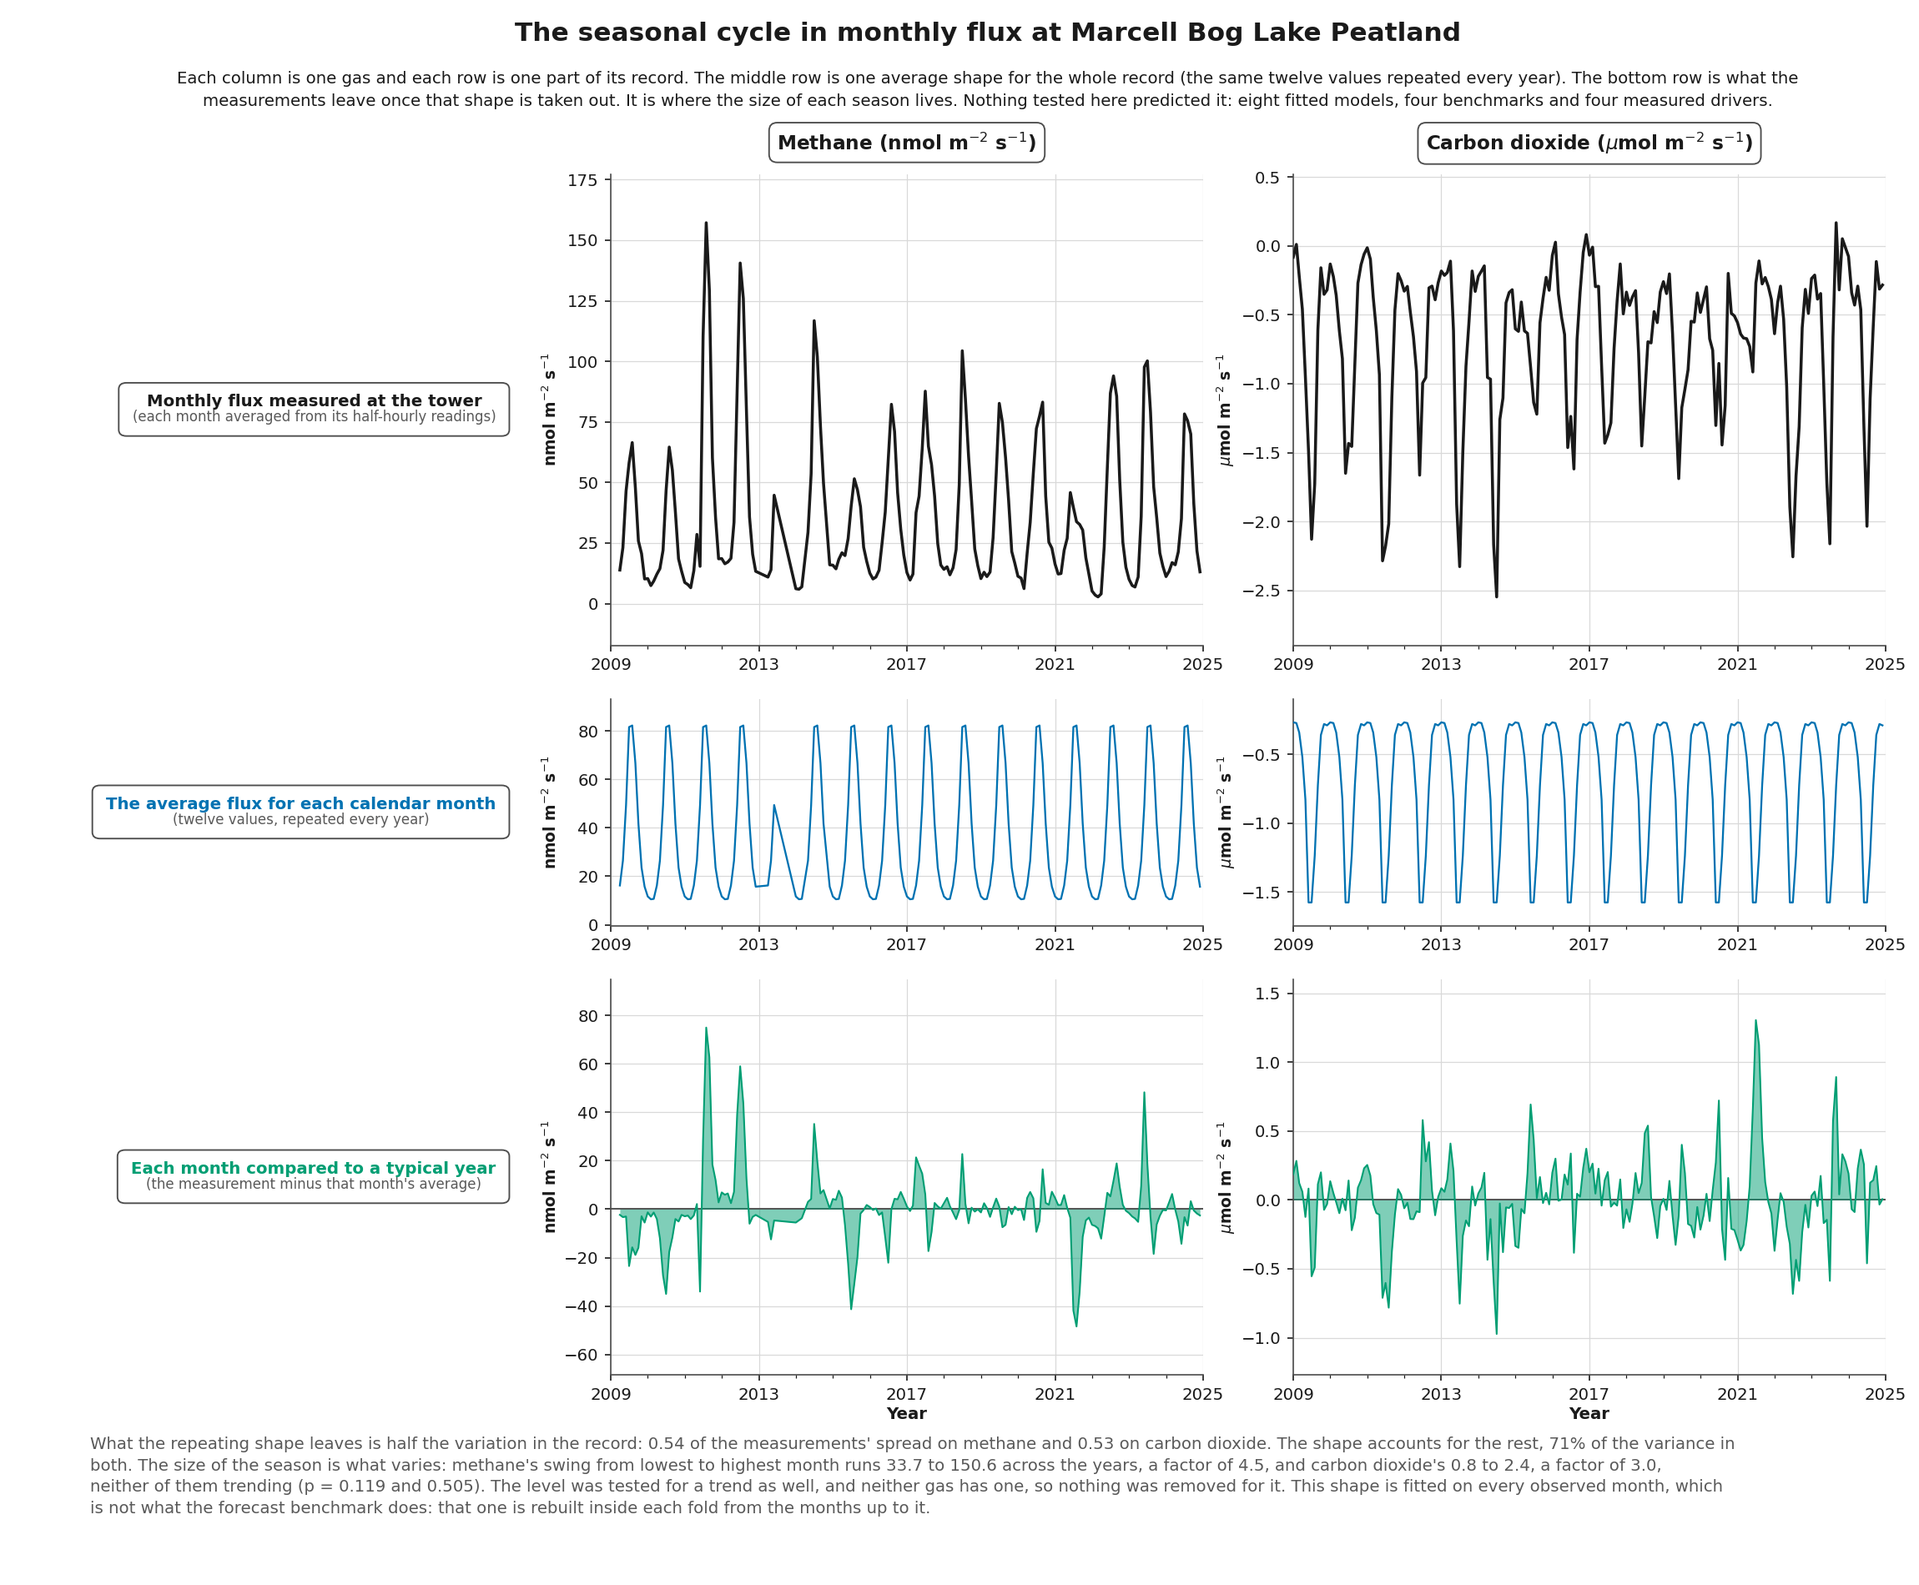
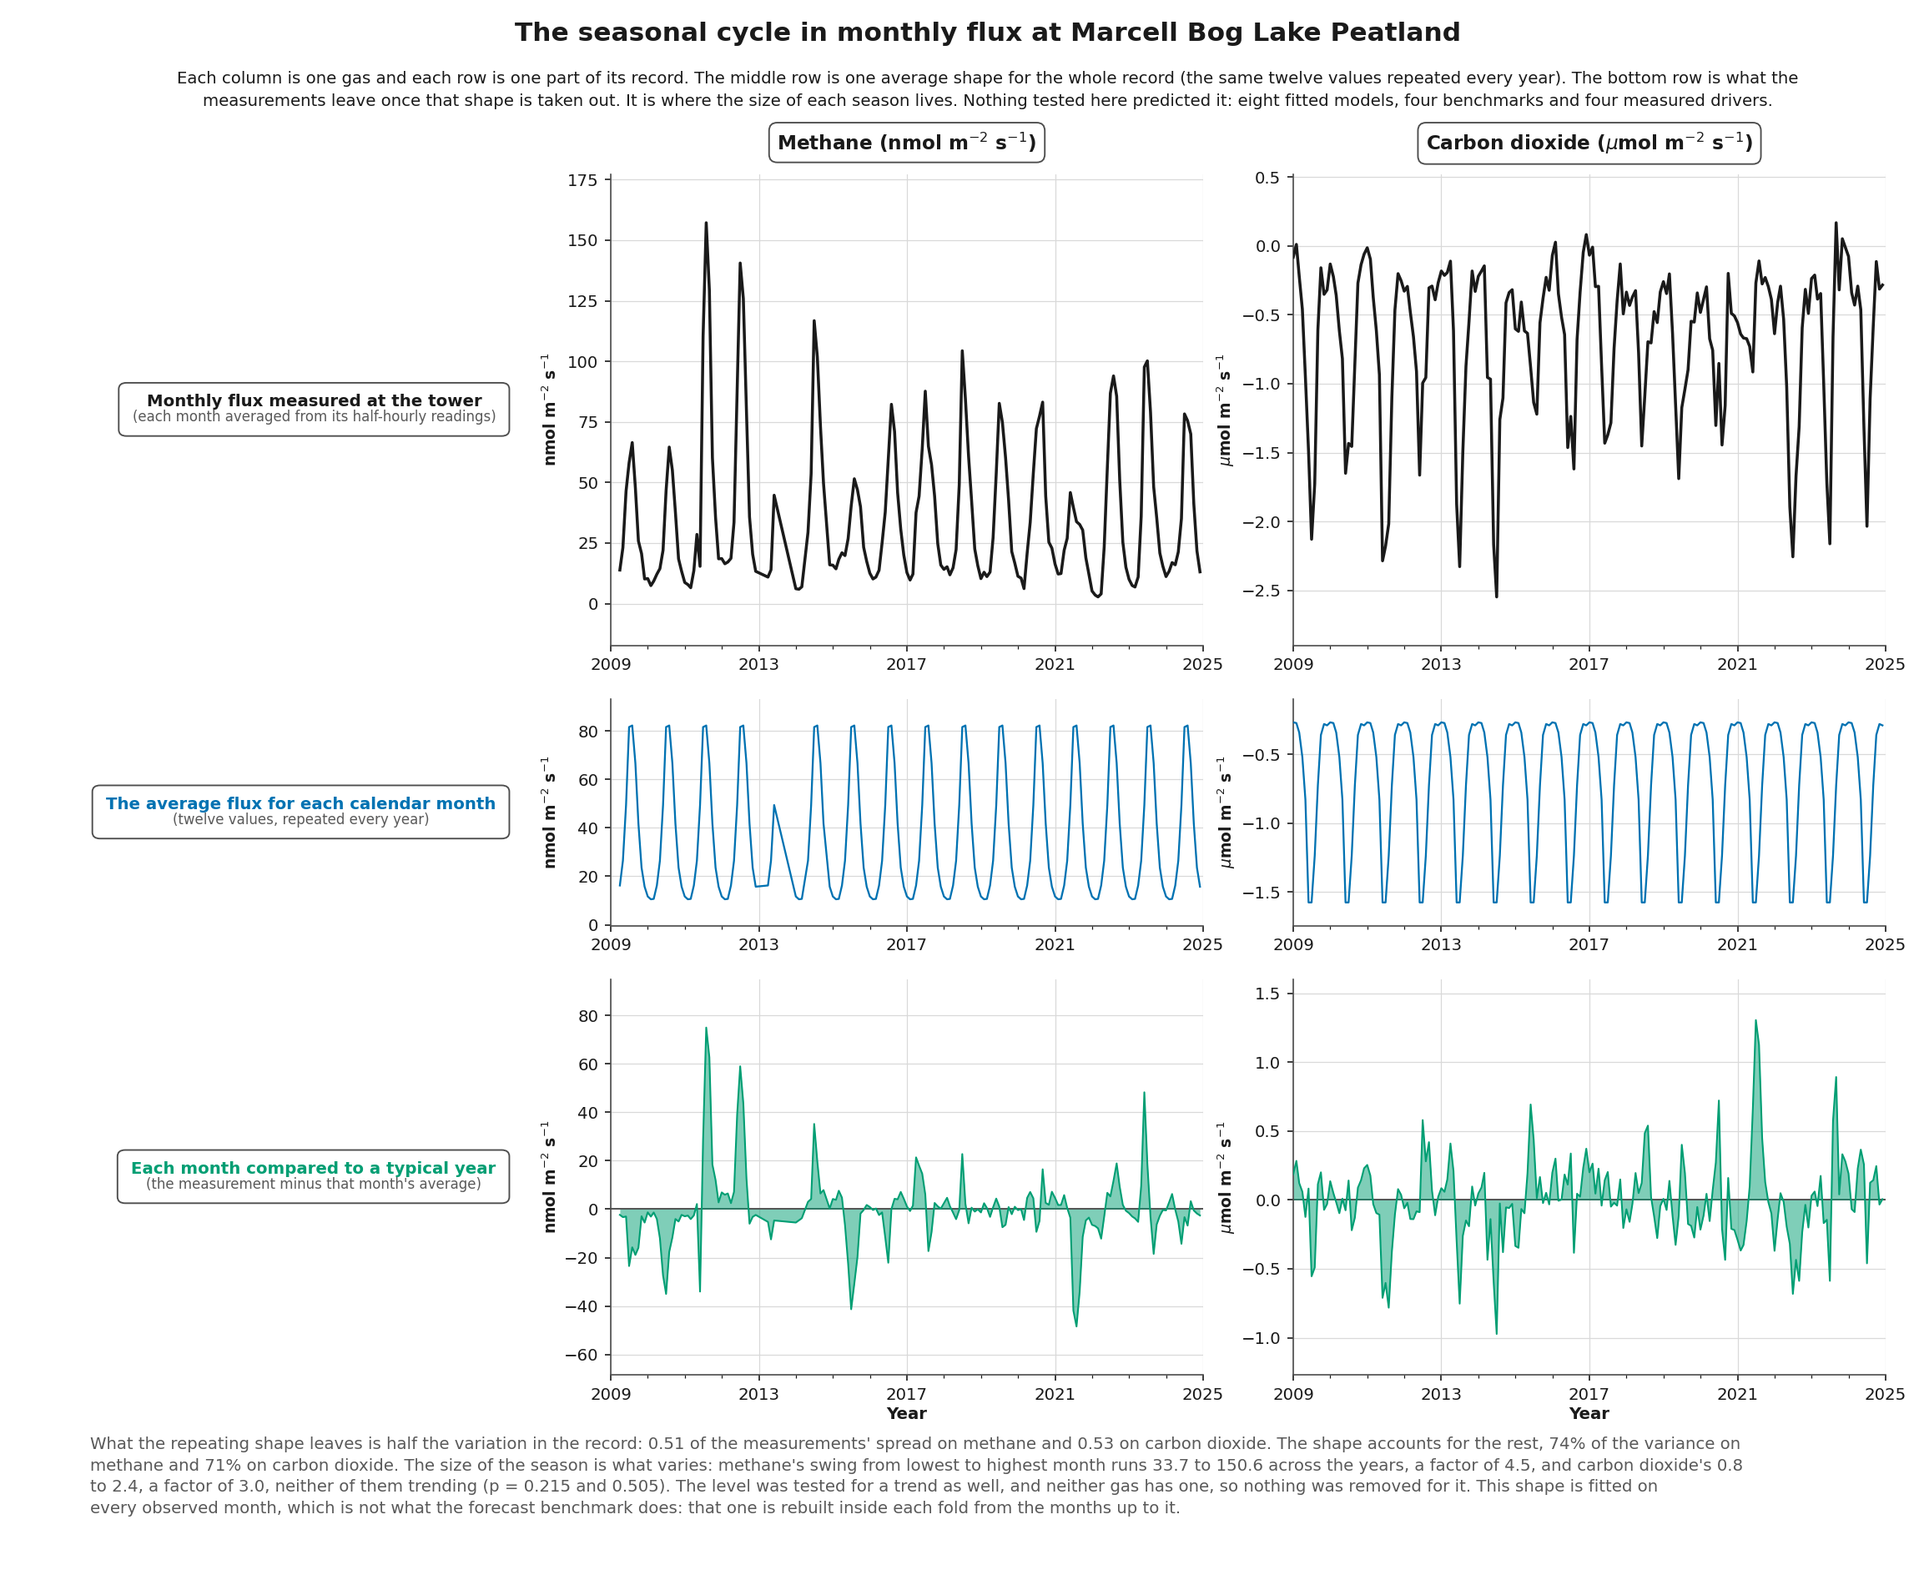
Correct the text the longer methane record moved
Seasonal cycle: the residual share falls to 0.51, the variance the
repeating shape explains rises to 74% on methane against 71% on carbon
dioxide, and the trend p moves to 0.215. The swing range is untouched:
three more years and 33.7 to 150.6 still holds, so the amplitude extremes
were already captured, which is itself support for the no-trend claim.

Availability: the drivers ending in 2019 now leave 60 months of methane
the tower recorded but the model cannot use, phrased as what the window
leaves rather than as a discard, since the count grew because the record
grew. The seasonal benchmarks reach 2024 on both gases.

Observed and predicted: 32% of methane months carry a prediction, from
40%. Carbon dioxide is unchanged at 44%, its record already running to
2024.

Three findings recorded in the notes. The 25-month claim was wrong before
the switch, being 24 on the export with no reachable basis for 25, and it
had reached the README. assemble.TARGET_END is the fourth instance of a
value that describes the data sitting as a constant. And the calendar
shares do not move with a longer index, because the added months are null
on both sides of the regression.

Drops the unused monthly_bog_lake_fen load from make_figures.

Changed region(s): [[0.0309, 0.9005, 0.8643, 0.9626]]

diff --git a/src/study/figures.py b/src/study/figures.py
@@ -728,7 +728,7 @@ def _draw_flux_panel(ax, panel: pd.DataFrame, unit: str, labeled: bool) -> None:
     """One gas: the measured series over the record, and predictions where they exist.
 
     The evaluated months are shaded rather than clipped to, so a reader sees how
-    much of the record was never forecast: 40% of the methane months carry a
+    much of the record was never forecast: 32% of the methane months carry a
     prediction and 44% of the carbon dioxide months.
     """
     times = panel.index.to_timestamp()
@@ -1400,12 +1400,13 @@ AVAILABILITY_TEXT = ps.FigureText(
     ),
     description=(
         "Air temperature and precipitation stop at the end of 2019. That ends the "
-        "months the model could learn from, and discards 25 months of methane the "
-        "tower recorded. Forecasts cannot be checked until 48 months of flux have "
-        "accumulated. For methane that took 62 calendar months, because of the "
-        "gaps in 2013 and 2014. The check ends in 2020, which is as far as the "
-        "models that use the drivers can run. The seasonal "
-        "benchmarks alone reach 2021 and 2024. Blue marks the range the model was "
+        "months the model could learn from, and leaves 60 months of methane the "
+        "tower recorded but the model cannot use. Forecasts cannot be checked "
+        "until 48 months of flux have accumulated. For methane that took 62 "
+        "calendar months, because of the gaps in 2013 and 2014. The check ends in "
+        "2020, which is as far as the models that use the drivers can run. The "
+        "seasonal benchmarks alone reach 2024 on both gases. Blue marks the range "
+        "the model was "
         "fitted on, as it does across this set. The two hollow marks are decisions "
         "rather than absences. The water table is set aside from January 2020 for "
         "a gauge change. Two months of 2019 are set aside for instrument error."
@@ -1698,12 +1699,13 @@ SEASONAL_TEXT = ps.FigureText(
         "and four measured drivers."
     ),
     description=(
-        "What the repeating shape leaves is half the variation in the record: 0.54 "
+        "What the repeating shape leaves is half the variation in the record: 0.51 "
         "of the measurements' spread on methane and 0.53 on carbon dioxide. The "
-        "shape accounts for the rest, 71% of the variance in both. The size of the "
+        "shape accounts for the rest, 74% of the variance on methane and 71% on "
+        "carbon dioxide. The size of the "
         "season is what varies: methane's swing from lowest to highest month runs "
         "33.7 to 150.6 across the years, a factor of 4.5, and carbon dioxide's 0.8 "
-        "to 2.4, a factor of 3.0, neither of them trending (p = 0.119 and 0.505). "
+        "to 2.4, a factor of 3.0, neither of them trending (p = 0.215 and 0.505). "
         "The level was tested for a trend as well, and neither gas has one, so "
         "nothing was removed for it. This shape is fitted on every observed month, "
         "which is not what the forecast benchmark does: that one is rebuilt inside "

diff --git a/tests/test_seasonal_figure.py b/tests/test_seasonal_figure.py
@@ -76,7 +76,9 @@ def test_the_split_runs_over_every_observed_month_of_the_committed_record():
     series = pd.read_csv(paths.processed_dir() / filename)
     series["month"] = pd.PeriodIndex(series["month"], freq="M")
     panel = figures.seasonal_parts(series.set_index("month")[column])
-    assert panel.index.max().year == 2021
+    # 2024, not 2021: methane is read from the 2025 BASE product, which carries
+    # three years the 2022 workbook export stopped short of.
+    assert panel.index.max().year == 2024
     assert panel.attrs["swing"].idxmin() == 2021
     assert panel.attrs["swing"].max() / panel.attrs["swing"].min() > 4.4
 
@@ -314,7 +316,7 @@ def test_the_description_leads_with_the_share_of_the_spread():
     """Variance share and standard deviation share pull opposite ways, and a
     reader takes whichever arrives first."""
     said = figures.SEASONAL_TEXT.description
-    assert said.index("0.54") < said.index("71%")
+    assert said.index("0.51") < said.index("74%")
 
 
 def test_the_description_says_the_shape_is_not_the_benchmark_s():
@@ -326,7 +328,7 @@ def test_the_description_says_the_shape_is_not_the_benchmark_s():
 
 def test_the_description_reports_both_amplitudes_with_their_trend_tests():
     said = figures.SEASONAL_TEXT.description
-    for number in ("33.7", "150.6", "4.5", "0.8", "2.4", "3.0", "0.119", "0.505"):
+    for number in ("33.7", "150.6", "4.5", "0.8", "2.4", "3.0", "0.215", "0.505"):
         assert number in said
 
 

diff --git a/tests/test_availability_figure.py b/tests/test_availability_figure.py
@@ -302,14 +302,19 @@ def test_the_training_lead_is_a_lighter_weight_of_the_same_mark():
 
 
 def test_the_description_says_what_the_window_cost_and_not_only_its_cause():
+    """Phrased as what the window leaves unusable rather than as a discard. The
+    count grew from 24 to 60 when methane was read from the 2025 product, and
+    "discards 60" would read as a larger loss when nothing was lost that was not
+    already lost: the number grew because the record did."""
     said = figures.AVAILABILITY_TEXT.description
-    assert "discards 25 months of methane" in said
+    assert "leaves 60 months of methane the tower recorded but the model cannot use" in said
+    assert "discards" not in said
     assert "48 months of flux" in said and "62 calendar months" in said
 
 
 def test_the_description_names_the_benchmark_tail_without_drawing_it():
     """A fourth mark for a clause is not worth it."""
-    assert "seasonal benchmarks alone reach 2021 and 2024" in \
+    assert "seasonal benchmarks alone reach 2024 on both gases" in \
         figures.AVAILABILITY_TEXT.description
 
 

diff --git a/tests/test_flux_figure.py b/tests/test_flux_figure.py
@@ -93,9 +93,14 @@ def test_the_fitted_range_brackets_every_fitted_model_and_excludes_the_benchmark
 
 
 def test_the_evaluated_share_of_each_record_is_what_the_figure_says():
-    """The panel note claims 40% of methane months and 44% of carbon dioxide."""
+    """The panel note claims 32% of methane months and 44% of carbon dioxide.
+
+    Methane's share fell from 40% when the series was extended to 2024: the
+    evaluated window is fixed by the drivers, so a longer record is a smaller
+    evaluated share of it. Carbon dioxide already ran to 2024 and did not move.
+    """
     shares = {gas: table["climatology"].notna().mean() for gas, table in real_panels().items()}
-    assert shares["methane"] == pytest.approx(0.40, abs=0.01)
+    assert shares["methane"] == pytest.approx(0.32, abs=0.01)
     assert shares["carbon_dioxide"] == pytest.approx(0.44, abs=0.01)
 
 

diff --git a/scripts/make_figures.py b/scripts/make_figures.py
@@ -199,10 +199,6 @@ def main() -> None:
     # Availability reads every source the study draws on, and takes its two
     # exclusions from the constants that define them, so a change to either moves
     # the figure rather than leaving it stale.
-    legacy = pd.read_csv(root / "data/processed/monthly_bog_lake_fen.csv")
-    legacy["month"] = pd.PeriodIndex(legacy["month"], freq="M")
-    legacy = legacy.set_index("month")
-
     def observed(filename: str, column: str) -> pd.Series:
         frame = pd.read_csv(root / "data/processed" / filename)
         frame["month"] = pd.PeriodIndex(frame["month"], freq="M")

diff --git a/figures/README_fragments.md b/figures/README_fragments.md
@@ -68,7 +68,7 @@ Across every evaluated year the methods fail in much the same way, missing by si
 
 **Each column is one gas and each row is one part of its record. The middle row is one average shape for the whole record (the same twelve values repeated every year). The bottom row is what the measurements leave once that shape is taken out. It is where the size of each season lives. Nothing tested here predicted it: eight fitted models, four benchmarks and four measured drivers.**
 
-What the repeating shape leaves is half the variation in the record: 0.54 of the measurements' spread on methane and 0.53 on carbon dioxide. The shape accounts for the rest, 71% of the variance in both. The size of the season is what varies: methane's swing from lowest to highest month runs 33.7 to 150.6 across the years, a factor of 4.5, and carbon dioxide's 0.8 to 2.4, a factor of 3.0, neither of them trending (p = 0.119 and 0.505). The level was tested for a trend as well, and neither gas has one, so nothing was removed for it. This shape is fitted on every observed month, which is not what the forecast benchmark does: that one is rebuilt inside each fold from the months up to it.
+What the repeating shape leaves is half the variation in the record: 0.51 of the measurements' spread on methane and 0.53 on carbon dioxide. The shape accounts for the rest, 74% of the variance on methane and 71% on carbon dioxide. The size of the season is what varies: methane's swing from lowest to highest month runs 33.7 to 150.6 across the years, a factor of 4.5, and carbon dioxide's 0.8 to 2.4, a factor of 3.0, neither of them trending (p = 0.215 and 0.505). The level was tested for a trend as well, and neither gas has one, so nothing was removed for it. This shape is fitted on every observed month, which is not what the forecast benchmark does: that one is rebuilt inside each fold from the months up to it.
 
 ### Which months each measurement and each analysis cover at Marcell Bog Lake Peatland
 
@@ -76,7 +76,7 @@ What the repeating shape leaves is half the variation in the record: 0.54 of the
 
 **Each row in the upper block is one measurement, and the bar covers the months it exists. They are ordered by where each record ends, latest first. The rows below are what each analysis covers: the months the model used, and the months its forecasts were checked on. Those spans were chosen from what was available rather than being facts about the site. The study's boundaries fall where the shortest records end.**
 
-Air temperature and precipitation stop at the end of 2019. That ends the months the model could learn from, and discards 25 months of methane the tower recorded. Forecasts cannot be checked until 48 months of flux have accumulated. For methane that took 62 calendar months, because of the gaps in 2013 and 2014. The check ends in 2020, which is as far as the models that use the drivers can run. The seasonal benchmarks alone reach 2021 and 2024. Blue marks the range the model was fitted on, as it does across this set. The two hollow marks are decisions rather than absences. The water table is set aside from January 2020 for a gauge change. Two months of 2019 are set aside for instrument error.
+Air temperature and precipitation stop at the end of 2019. That ends the months the model could learn from, and leaves 60 months of methane the tower recorded but the model cannot use. Forecasts cannot be checked until 48 months of flux have accumulated. For methane that took 62 calendar months, because of the gaps in 2013 and 2014. The check ends in 2020, which is as far as the models that use the drivers can run. The seasonal benchmarks alone reach 2024 on both gases. Blue marks the range the model was fitted on, as it does across this set. The two hollow marks are decisions rather than absences. The water table is set aside from January 2020 for a gauge change. Two months of 2019 are set aside for instrument error.
 
 ### Diagnostic check on model errors at Marcell Bog Lake Peatland (2009 to 2019)
 

diff --git a/notes/ingestion.md b/notes/ingestion.md
@@ -79,6 +79,27 @@ the derived subset was cut from the 2022 one. Anything that deletes the Excel
 reader as unreferenced will break script 01 silently, because the failure is a
 missing file rather than a missing symbol.
 
+**The 25-month claim was wrong before the switch, not because of it.** The
+availability figure said the drivers ending in 2019 "discards 25 months of
+methane the tower recorded". On the export that number is **24** — the twelve
+months of 2020 and the twelve of 2021 — and no basis reachable from the code
+gives 25. The count on the 2025 product is **60**. It has now been restated, and
+phrased as what the window *leaves unusable* rather than as a discard: the number
+grew because the record grew, and "discards 60" would read as a larger loss when
+nothing was lost that had not already been lost. **The wrong figure had also
+reached the README**, which is where it was taken from for a rewrite, so it was
+carried forward once before being checked.
+
+**A useful negative: the calendar shares do not move.** The share of each
+covariate the calendar explains — 95% of soil and air temperature, 3.8% of the
+water table on methane and 6.0% on carbon dioxide — was expected to shift, since
+`explained_by_calendar` is computed over the observed-month index and that index
+grew by 36 months. It is **identical to four decimal places**. The covariates end
+in 2019 and the water table is cut at the datum break before that, so every added
+month contributes a null on both sides of the regression and drops out. Worth
+recording because the assumption that a longer index moves an index-dependent
+statistic is the natural one and is wrong here.
+
 **`assemble.TARGET_END` moved from 2021-12 to 2024-12** for the same reason. The
 monthly grid exists so the series is regularly spaced by construction over the
 target span; leaving it at the export's last month would have truncated

diff --git a/notes/study.md b/notes/study.md
@@ -221,6 +221,17 @@ recovers the nominal window. Two further literals were removed at the same time:
 backward-transfer coverages at 84.4% and 62.5%, all three of which described the
 nominal window, and all three are now computed from the window in use.
 
+**A fourth instance, found later.** `ingest.assemble.TARGET_END` was the literal
+`"2021-12"`, the last month of the 2022 workbook export. When methane moved to
+the 2025 BASE product it would have left `monthly_bog_lake_fen.csv` ending three
+years short of every other methane output, and nothing would have failed: the
+grid would simply have stopped, regularly spaced and wrong. It is now `"2024-12"`
+with the reason at the constant. **This is the same class as the three above** —
+the window exclusion living in the figure module, the pinned wettest-band bias,
+the pinned backward-transfer coverages — a value that describes the data sitting
+as a constant rather than being derived from it. Four instances is enough to call
+it a pattern in this repository rather than three accidents.
+
 **Everything below is the adopted window as the committed scripts now produce it.
 Numbers that moved when the pipeline caught up with the prose are noted where
 they appear.**
